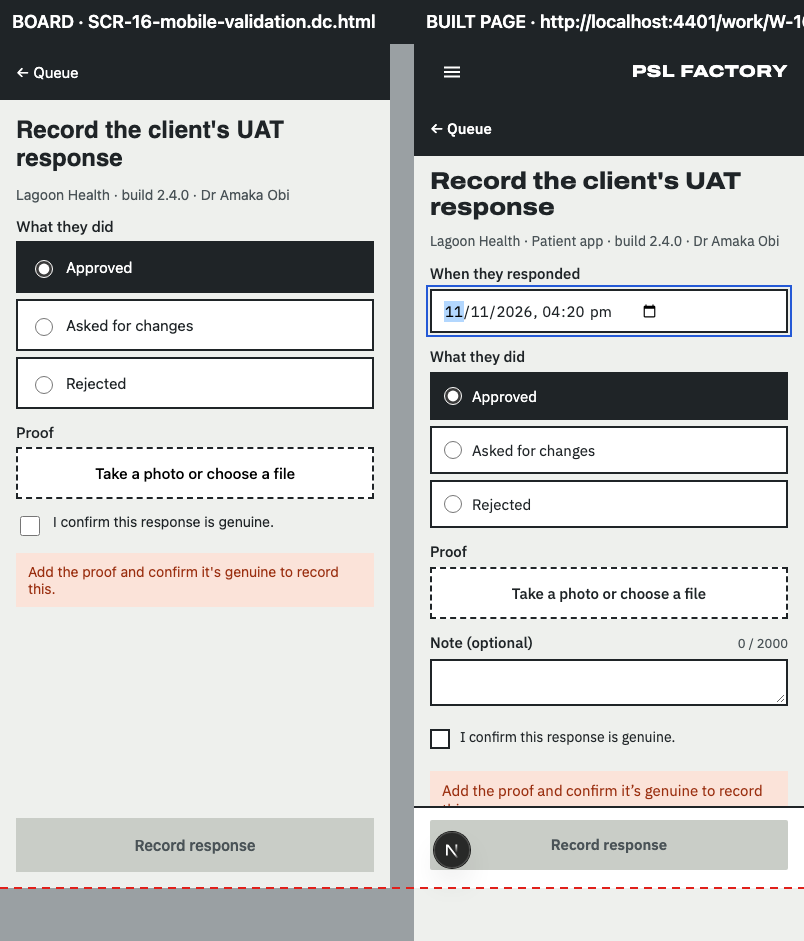
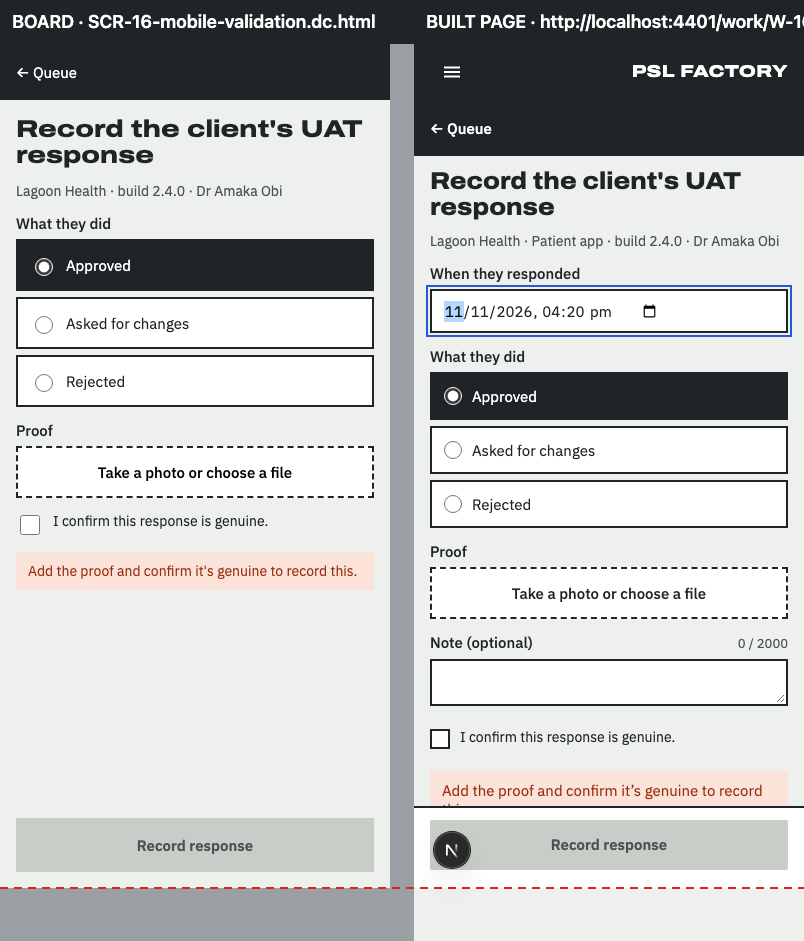
Delivery: F-10 provisional product acceptance and PR #16; merge waits for the design engineer (high risk)

diff --git a/delivery/features/F-09/round-1/fidelity/SCR-02-desktop-waiting-1440/report.html b/delivery/features/F-09/round-1/fidelity/SCR-02-desktop-waiting-1440/report.html
@@ -27,10 +27,10 @@ details{margin-top:6px}summary{cursor:pointer;font-weight:600}
 code{font-size:13px;background:var(--bg);padding:0 4px}
 </style></head><body><main>
 <header><h1>Does the built page follow the design?</h1>
-<p class="sub">Board <strong>SCR-02-desktop-waiting.dc.html</strong> compared with <strong>http://localhost:4401/work/W-1601</strong> at 1440px wide · 2026-11-14T07:19:39.861Z</p></header>
+<p class="sub">Board <strong>SCR-02-desktop-waiting.dc.html</strong> compared with <strong>http://localhost:4401/work/W-1601</strong> at 1440px wide · 2026-11-14T07:20:21.472Z</p></header>
 
 <div class="verdict fail"><strong>Does not pass the design check</strong>
-<ul><li>1 board item(s) are missing from the page and are not approved exceptions (coverage 96.9% with exceptions, needs 100%).</li><li>Visual match 48.5 is below 90.</li><li>1 item(s) are in a different place; review them (not part of the pass rule unless --strict-position).</li></ul></div>
+<ul><li>Every board item is on the page or approved as an exception (100%).</li><li>Visual match 48.5 is below 90.</li><li>1 item(s) are in a different place; review them (not part of the pass rule unless --strict-position).</li></ul></div>
 
 <div class="scores">
 <div class="score"><div class="big">28.1%</div><div class="need">Element coverage · needs 100% (approved exceptions count as covered)</div>
@@ -39,7 +39,7 @@ code{font-size:13px;background:var(--bg);padding:0 4px}
 <p>How closely the shapes line up: blocks, bars, tables and text areas, compared in 12px squares over the top 900px. Different words in the same place still count as a match, so sample data does not lower the score.</p></div>
 </div>
 
-<section id="missing"><h2>Missing from the built page <span class="n">23</span></h2><p class="intro">Drawn on the board but not found on the page. Each one must be built, or approved as an exception.</p><table><thead><tr><th>#</th><th>What</th><th>Text on the board</th><th>Where on the board</th><th>Exception</th></tr></thead><tbody><tr><td><span class="tag t-miss">M1</span></td><td>Link</td><td>Start work</td><td>right, 8px down</td><td><span class="tag t-ok">approved</span> Frame item (app top bar, src/shell, F-05's Start work split button); not on this base and outside F-09's lane.</td></tr><tr><td><span class="tag t-miss">M2</span></td><td>Link</td><td>More ways to start</td><td>right, 8px down</td><td><span class="tag t-ok">approved</span> Frame item (app top bar, src/shell, F-05's Start work split button); not on this base and outside F-09's lane.</td></tr><tr><td><span class="tag t-miss">M3</span></td><td>Text</td><td>REL-0077 · LAGOON HEALTH</td><td>middle, 84px down</td><td><span class="tag t-ok">approved</span> SCR-02 page content owned by F-03 (work item header, facts strip, agent card, waiting panel); F-09 adds only the entry button and the reconcile panel (readiness PMO-0-6: differences raised against F-03).</td></tr><tr><td><span class="tag t-miss">M4</span></td><td>Text</td><td>WAITING ON CLIENT</td><td>right, 119px down</td><td><span class="tag t-ok">approved</span> SCR-02 page content owned by F-03 (work item header, facts strip, agent card, waiting panel); F-09 adds only the entry button and the reconcile panel (readiness PMO-0-6: differences raised against F-03).</td></tr><tr><td><span class="tag t-miss">M5</span></td><td>Text</td><td>DRAFTED</td><td>left, 192px down</td><td><span class="tag t-ok">approved</span> SCR-02 page content owned by F-03 (work item header, facts strip, agent card, waiting panel); F-09 adds only the entry button and the reconcile panel (readiness PMO-0-6: differences raised against F-03).</td></tr><tr><td><span class="tag t-miss">M6</span></td><td>Text</td><td>v1</td><td>left, 210px down</td><td><span class="tag t-ok">approved</span> SCR-02 page content owned by F-03 (work item header, facts strip, agent card, waiting panel); F-09 adds only the entry button and the reconcile panel (readiness PMO-0-6: differences raised against F-03).</td></tr><tr><td><span class="tag t-miss">M7</span></td><td>Text</td><td>REVIEWED</td><td>left, 192px down</td><td><span class="tag t-ok">approved</span> SCR-02 page content owned by F-03 (work item header, facts strip, agent card, waiting panel); F-09 adds only the entry button and the reconcile panel (readiness PMO-0-6: differences raised against F-03).</td></tr><tr><td><span class="tag t-miss">M8</span></td><td>Text</td><td>PMO Lead</td><td>left, 210px down</td><td><span class="tag t-ok">approved</span> SCR-02 page content owned by F-03 (work item header, facts strip, agent card, waiting panel); F-09 adds only the entry button and the reconcile panel (readiness PMO-0-6: differences raised against F-03).</td></tr><tr><td><span class="tag t-miss">M9</span></td><td>Text</td><td>APPROVED</td><td>middle, 192px down</td><td><span class="tag t-ok">approved</span> SCR-02 page content owned by F-03 (work item header, facts strip, agent card, waiting panel); F-09 adds only the entry button and the reconcile panel (readiness PMO-0-6: differences raised against F-03).</td></tr><tr><td><span class="tag t-miss">M10</span></td><td>Text</td><td>PMO Lead</td><td>middle, 210px down</td><td><span class="tag t-ok">approved</span> SCR-02 page content owned by F-03 (work item header, facts strip, agent card, waiting panel); F-09 adds only the entry button and the reconcile panel (readiness PMO-0-6: differences raised against F-03).</td></tr><tr><td><span class="tag t-miss">M11</span></td><td>Text</td><td>SENT</td><td>middle, 192px down</td><td><span class="tag t-ok">approved</span> SCR-02 page content owned by F-03 (work item header, facts strip, agent card, waiting panel); F-09 adds only the entry button and the reconcile panel (readiness PMO-0-6: differences raised against F-03).</td></tr><tr><td><span class="tag t-miss">M12</span></td><td>Text</td><td>To client 06 Nov</td><td>middle, 210px down</td><td><span class="tag t-ok">approved</span> SCR-02 page content owned by F-03 (work item header, facts strip, agent card, waiting panel); F-09 adds only the entry button and the reconcile panel (readiness PMO-0-6: differences raised against F-03).</td></tr><tr><td><span class="tag t-miss">M13</span></td><td>Text</td><td>RECEIPT</td><td>right, 192px down</td><td><span class="tag t-ok">approved</span> SCR-02 page content owned by F-03 (work item header, facts strip, agent card, waiting panel); F-09 adds only the entry button and the reconcile panel (readiness PMO-0-6: differences raised against F-03).</td></tr><tr><td><span class="tag t-miss">M14</span></td><td>Text</td><td>Delivered</td><td>right, 210px down</td><td><span class="tag t-ok">approved</span> SCR-02 page content owned by F-03 (work item header, facts strip, agent card, waiting panel); F-09 adds only the entry button and the reconcile panel (readiness PMO-0-6: differences raised against F-03).</td></tr><tr><td><span class="tag t-miss">M15</span></td><td>Text</td><td>VERIFIED</td><td>right, 192px down</td><td><span class="tag t-ok">approved</span> SCR-02 page content owned by F-03 (work item header, facts strip, agent card, waiting panel); F-09 adds only the entry button and the reconcile panel (readiness PMO-0-6: differences raised against F-03).</td></tr><tr><td><span class="tag t-miss">M16</span></td><td>Text</td><td>—</td><td>right, 210px down</td><td><span class="tag t-ok">approved</span> SCR-02 page content owned by F-03 (work item header, facts strip, agent card, waiting panel); F-09 adds only the entry button and the reconcile panel (readiness PMO-0-6: differences raised against F-03).</td></tr><tr><td><span class="tag t-miss">M17</span></td><td>Text</td><td>Tola has done the agent's part and is waiting on Lagoon Health.</td><td>middle, 363px down</td><td><span class="tag t-ok">approved</span> SCR-02 page content owned by F-03 (work item header, facts strip, agent card, waiting panel); F-09 adds only the entry button and the reconcile panel (readiness PMO-0-6: differences raised against F-03).</td></tr><tr><td><span class="tag t-miss">M18</span></td><td>Text</td><td>The UAT pack was delivered on 06 Nov. Tola will remind the client on 13 Nov. When they reply, a PM records it with the proof.</td><td>middle, 387px down</td><td><span class="tag t-ok">approved</span> SCR-02 page content owned by F-03 (work item header, facts strip, agent card, waiting panel); F-09 adds only the entry button and the reconcile panel (readiness PMO-0-6: differences raised against F-03).</td></tr><tr><td><span class="tag t-miss">M19</span></td><td>Side panel</td><td>(side panel)</td><td>right, 445px down</td><td>—</td></tr><tr><td><span class="tag t-miss">M20</span></td><td>Text</td><td>WAITING ON THE CLIENT</td><td>right, 447px down</td><td><span class="tag t-ok">approved</span> SCR-02 page content owned by F-03 (work item header, facts strip, agent card, waiting panel); F-09 adds only the entry button and the reconcile panel (readiness PMO-0-6: differences raised against F-03).</td></tr><tr><td><span class="tag t-miss">M21</span></td><td>Text</td><td>Lagoon Health has had the UAT pack since 06 Nov. Their response is due 14 Nov (from the release plan).</td><td>right, 503px down</td><td><span class="tag t-ok">approved</span> SCR-02 page content owned by F-03 (work item header, facts strip, agent card, waiting panel); F-09 adds only the entry button and the reconcile panel (readiness PMO-0-6: differences raised against F-03).</td></tr><tr><td><span class="tag t-miss">M22</span></td><td>Text</td><td>Tola will send a reminder from your mailbox on 13 Nov if nothing arrives. When the client replies, record it here with the proof.</td><td>right, 576px down</td><td><span class="tag t-ok">approved</span> SCR-02 page content owned by F-03 (work item header, facts strip, agent card, waiting panel); F-09 adds only the entry button and the reconcile panel (readiness PMO-0-6: differences raised against F-03).</td></tr><tr><td><span class="tag t-miss">M23</span></td><td>Link</td><td>Change the reminder</td><td>right, 709px down</td><td><span class="tag t-ok">approved</span> Out of scope for F-09 (readiness PMO-0-7: &quot;Change the reminder&quot; stays out); the waiting panel's copy is F-03's.</td></tr></tbody></table></section>
+<section id="missing"><h2>Missing from the built page <span class="n">23</span></h2><p class="intro">Drawn on the board but not found on the page. Each one must be built, or approved as an exception.</p><table><thead><tr><th>#</th><th>What</th><th>Text on the board</th><th>Where on the board</th><th>Exception</th></tr></thead><tbody><tr><td><span class="tag t-miss">M1</span></td><td>Link</td><td>Start work</td><td>right, 8px down</td><td><span class="tag t-ok">approved</span> Frame item (app top bar, src/shell, F-05's Start work split button); not on this base and outside F-09's lane.</td></tr><tr><td><span class="tag t-miss">M2</span></td><td>Link</td><td>More ways to start</td><td>right, 8px down</td><td><span class="tag t-ok">approved</span> Frame item (app top bar, src/shell, F-05's Start work split button); not on this base and outside F-09's lane.</td></tr><tr><td><span class="tag t-miss">M3</span></td><td>Text</td><td>REL-0077 · LAGOON HEALTH</td><td>middle, 84px down</td><td><span class="tag t-ok">approved</span> SCR-02 page content owned by F-03 (work item header, facts strip, agent card, waiting panel); F-09 adds only the entry button and the reconcile panel (readiness PMO-0-6: differences raised against F-03).</td></tr><tr><td><span class="tag t-miss">M4</span></td><td>Text</td><td>WAITING ON CLIENT</td><td>right, 119px down</td><td><span class="tag t-ok">approved</span> SCR-02 page content owned by F-03 (work item header, facts strip, agent card, waiting panel); F-09 adds only the entry button and the reconcile panel (readiness PMO-0-6: differences raised against F-03).</td></tr><tr><td><span class="tag t-miss">M5</span></td><td>Text</td><td>DRAFTED</td><td>left, 192px down</td><td><span class="tag t-ok">approved</span> SCR-02 page content owned by F-03 (work item header, facts strip, agent card, waiting panel); F-09 adds only the entry button and the reconcile panel (readiness PMO-0-6: differences raised against F-03).</td></tr><tr><td><span class="tag t-miss">M6</span></td><td>Text</td><td>v1</td><td>left, 210px down</td><td><span class="tag t-ok">approved</span> SCR-02 page content owned by F-03 (work item header, facts strip, agent card, waiting panel); F-09 adds only the entry button and the reconcile panel (readiness PMO-0-6: differences raised against F-03).</td></tr><tr><td><span class="tag t-miss">M7</span></td><td>Text</td><td>REVIEWED</td><td>left, 192px down</td><td><span class="tag t-ok">approved</span> SCR-02 page content owned by F-03 (work item header, facts strip, agent card, waiting panel); F-09 adds only the entry button and the reconcile panel (readiness PMO-0-6: differences raised against F-03).</td></tr><tr><td><span class="tag t-miss">M8</span></td><td>Text</td><td>PMO Lead</td><td>left, 210px down</td><td><span class="tag t-ok">approved</span> SCR-02 page content owned by F-03 (work item header, facts strip, agent card, waiting panel); F-09 adds only the entry button and the reconcile panel (readiness PMO-0-6: differences raised against F-03).</td></tr><tr><td><span class="tag t-miss">M9</span></td><td>Text</td><td>APPROVED</td><td>middle, 192px down</td><td><span class="tag t-ok">approved</span> SCR-02 page content owned by F-03 (work item header, facts strip, agent card, waiting panel); F-09 adds only the entry button and the reconcile panel (readiness PMO-0-6: differences raised against F-03).</td></tr><tr><td><span class="tag t-miss">M10</span></td><td>Text</td><td>PMO Lead</td><td>middle, 210px down</td><td><span class="tag t-ok">approved</span> SCR-02 page content owned by F-03 (work item header, facts strip, agent card, waiting panel); F-09 adds only the entry button and the reconcile panel (readiness PMO-0-6: differences raised against F-03).</td></tr><tr><td><span class="tag t-miss">M11</span></td><td>Text</td><td>SENT</td><td>middle, 192px down</td><td><span class="tag t-ok">approved</span> SCR-02 page content owned by F-03 (work item header, facts strip, agent card, waiting panel); F-09 adds only the entry button and the reconcile panel (readiness PMO-0-6: differences raised against F-03).</td></tr><tr><td><span class="tag t-miss">M12</span></td><td>Text</td><td>To client 06 Nov</td><td>middle, 210px down</td><td><span class="tag t-ok">approved</span> SCR-02 page content owned by F-03 (work item header, facts strip, agent card, waiting panel); F-09 adds only the entry button and the reconcile panel (readiness PMO-0-6: differences raised against F-03).</td></tr><tr><td><span class="tag t-miss">M13</span></td><td>Text</td><td>RECEIPT</td><td>right, 192px down</td><td><span class="tag t-ok">approved</span> SCR-02 page content owned by F-03 (work item header, facts strip, agent card, waiting panel); F-09 adds only the entry button and the reconcile panel (readiness PMO-0-6: differences raised against F-03).</td></tr><tr><td><span class="tag t-miss">M14</span></td><td>Text</td><td>Delivered</td><td>right, 210px down</td><td><span class="tag t-ok">approved</span> SCR-02 page content owned by F-03 (work item header, facts strip, agent card, waiting panel); F-09 adds only the entry button and the reconcile panel (readiness PMO-0-6: differences raised against F-03).</td></tr><tr><td><span class="tag t-miss">M15</span></td><td>Text</td><td>VERIFIED</td><td>right, 192px down</td><td><span class="tag t-ok">approved</span> SCR-02 page content owned by F-03 (work item header, facts strip, agent card, waiting panel); F-09 adds only the entry button and the reconcile panel (readiness PMO-0-6: differences raised against F-03).</td></tr><tr><td><span class="tag t-miss">M16</span></td><td>Text</td><td>—</td><td>right, 210px down</td><td><span class="tag t-ok">approved</span> SCR-02 page content owned by F-03 (work item header, facts strip, agent card, waiting panel); F-09 adds only the entry button and the reconcile panel (readiness PMO-0-6: differences raised against F-03).</td></tr><tr><td><span class="tag t-miss">M17</span></td><td>Text</td><td>Tola has done the agent's part and is waiting on Lagoon Health.</td><td>middle, 363px down</td><td><span class="tag t-ok">approved</span> SCR-02 page content owned by F-03 (work item header, facts strip, agent card, waiting panel); F-09 adds only the entry button and the reconcile panel (readiness PMO-0-6: differences raised against F-03).</td></tr><tr><td><span class="tag t-miss">M18</span></td><td>Text</td><td>The UAT pack was delivered on 06 Nov. Tola will remind the client on 13 Nov. When they reply, a PM records it with the proof.</td><td>middle, 387px down</td><td><span class="tag t-ok">approved</span> SCR-02 page content owned by F-03 (work item header, facts strip, agent card, waiting panel); F-09 adds only the entry button and the reconcile panel (readiness PMO-0-6: differences raised against F-03).</td></tr><tr><td><span class="tag t-miss">M19</span></td><td>Side panel</td><td>(side panel)</td><td>right, 445px down</td><td><span class="tag t-ok">approved</span> The SCR-02 waiting board's side panel (&quot;Waiting on the client&quot;) is F-03's; F-09 places only its &quot;Record the client's response&quot; button (readiness PMO-0-6, PMO-0-7).</td></tr><tr><td><span class="tag t-miss">M20</span></td><td>Text</td><td>WAITING ON THE CLIENT</td><td>right, 447px down</td><td><span class="tag t-ok">approved</span> SCR-02 page content owned by F-03 (work item header, facts strip, agent card, waiting panel); F-09 adds only the entry button and the reconcile panel (readiness PMO-0-6: differences raised against F-03).</td></tr><tr><td><span class="tag t-miss">M21</span></td><td>Text</td><td>Lagoon Health has had the UAT pack since 06 Nov. Their response is due 14 Nov (from the release plan).</td><td>right, 503px down</td><td><span class="tag t-ok">approved</span> SCR-02 page content owned by F-03 (work item header, facts strip, agent card, waiting panel); F-09 adds only the entry button and the reconcile panel (readiness PMO-0-6: differences raised against F-03).</td></tr><tr><td><span class="tag t-miss">M22</span></td><td>Text</td><td>Tola will send a reminder from your mailbox on 13 Nov if nothing arrives. When the client replies, record it here with the proof.</td><td>right, 576px down</td><td><span class="tag t-ok">approved</span> SCR-02 page content owned by F-03 (work item header, facts strip, agent card, waiting panel); F-09 adds only the entry button and the reconcile panel (readiness PMO-0-6: differences raised against F-03).</td></tr><tr><td><span class="tag t-miss">M23</span></td><td>Link</td><td>Change the reminder</td><td>right, 709px down</td><td><span class="tag t-ok">approved</span> Out of scope for F-09 (readiness PMO-0-7: &quot;Change the reminder&quot; stays out); the waiting panel's copy is F-03's.</td></tr></tbody></table></section>
 
 <section id="moved"><h2>In a different place <span class="n">1</span></h2><p class="intro">Found on both, but in a different order, side of the page, or area (for example inside the table frame instead of above it).</p><table><thead><tr><th>#</th><th>What</th><th>How it moved</th></tr></thead><tbody><tr><td><span class="tag t-move">P1</span></td><td>Link<br>Record the client's response</td><td><ul class="notes"><li>inside a side panel on the board, inside the main area on the page</li></ul></td></tr></tbody></table></section>
 

diff --git a/delivery/features/F-09/round-1/fidelity/SCR-02-mobile-waiting-390/report.html b/delivery/features/F-09/round-1/fidelity/SCR-02-mobile-waiting-390/report.html
@@ -27,19 +27,19 @@ details{margin-top:6px}summary{cursor:pointer;font-weight:600}
 code{font-size:13px;background:var(--bg);padding:0 4px}
 </style></head><body><main>
 <header><h1>Does the built page follow the design?</h1>
-<p class="sub">Board <strong>SCR-02-mobile-waiting.dc.html</strong> compared with <strong>http://localhost:4401/work/W-1601</strong> at 390px wide · 2026-11-14T07:19:48.311Z</p></header>
+<p class="sub">Board <strong>SCR-02-mobile-waiting.dc.html</strong> compared with <strong>http://localhost:4401/work/W-1601</strong> at 390px wide · 2026-11-14T07:20:28.555Z</p></header>
 
 <div class="verdict fail"><strong>Does not pass the design check</strong>
-<ul><li>Every board item is on the page or approved as an exception (100%).</li><li>Visual match 53 is below 90.</li></ul></div>
+<ul><li>Every board item is on the page or approved as an exception (100%).</li><li>Visual match 52.7 is below 90.</li></ul></div>
 
 <div class="scores">
 <div class="score"><div class="big">10.5%</div><div class="need">Element coverage · needs 100% (approved exceptions count as covered)</div>
 <p>2 of 19 things drawn on the board were found on the page: headings, buttons, links, search and filter controls, table columns, labels and the repeated rows (counted once, not per row).</p></div>
-<div class="score"><div class="big">53</div><div class="need">Visual match out of 100 · needs 90</div>
+<div class="score"><div class="big">52.7</div><div class="need">Visual match out of 100 · needs 90</div>
 <p>How closely the shapes line up: blocks, bars, tables and text areas, compared in 12px squares over the top 844px. Different words in the same place still count as a match, so sample data does not lower the score.</p></div>
 </div>
 
-<section id="missing"><h2>Missing from the built page <span class="n">17</span></h2><p class="intro">Drawn on the board but not found on the page. Each one must be built, or approved as an exception.</p><table><thead><tr><th>#</th><th>What</th><th>Text on the board</th><th>Where on the board</th><th>Exception</th></tr></thead><tbody><tr><td><span class="tag t-miss">M1</span></td><td>Link</td><td>← Queue</td><td>left, 6px down</td><td><span class="tag t-ok">approved</span> SCR-02 phone header belongs to F-03 / the frame's phone bar (D-08); F-09 adds only the entry button and the reconcile panel.</td></tr><tr><td><span class="tag t-miss">M2</span></td><td>Text</td><td>REL-0077</td><td>right, 21px down</td><td><span class="tag t-ok">approved</span> SCR-02 page content owned by F-03 (work item header, facts strip, agent card, waiting panel); F-09 adds only the entry button and the reconcile panel (readiness PMO-0-6: differences raised against F-03).</td></tr><tr><td><span class="tag t-miss">M3</span></td><td>Text</td><td>WAITING ON CLIENT</td><td>left, 106px down</td><td><span class="tag t-ok">approved</span> SCR-02 page content owned by F-03 (work item header, facts strip, agent card, waiting panel); F-09 adds only the entry button and the reconcile panel (readiness PMO-0-6: differences raised against F-03).</td></tr><tr><td><span class="tag t-miss">M4</span></td><td>Text</td><td>DRAFTED</td><td>left, 149px down</td><td><span class="tag t-ok">approved</span> SCR-02 page content owned by F-03 (work item header, facts strip, agent card, waiting panel); F-09 adds only the entry button and the reconcile panel (readiness PMO-0-6: differences raised against F-03).</td></tr><tr><td><span class="tag t-miss">M5</span></td><td>Text</td><td>v1</td><td>left, 161px down</td><td><span class="tag t-ok">approved</span> SCR-02 page content owned by F-03 (work item header, facts strip, agent card, waiting panel); F-09 adds only the entry button and the reconcile panel (readiness PMO-0-6: differences raised against F-03).</td></tr><tr><td><span class="tag t-miss">M6</span></td><td>Text</td><td>REVIEWED</td><td>middle, 149px down</td><td><span class="tag t-ok">approved</span> SCR-02 page content owned by F-03 (work item header, facts strip, agent card, waiting panel); F-09 adds only the entry button and the reconcile panel (readiness PMO-0-6: differences raised against F-03).</td></tr><tr><td><span class="tag t-miss">M7</span></td><td>Text</td><td>PMO Lead</td><td>middle, 161px down</td><td><span class="tag t-ok">approved</span> SCR-02 page content owned by F-03 (work item header, facts strip, agent card, waiting panel); F-09 adds only the entry button and the reconcile panel (readiness PMO-0-6: differences raised against F-03).</td></tr><tr><td><span class="tag t-miss">M8</span></td><td>Text</td><td>APPROVED</td><td>right, 149px down</td><td><span class="tag t-ok">approved</span> SCR-02 page content owned by F-03 (work item header, facts strip, agent card, waiting panel); F-09 adds only the entry button and the reconcile panel (readiness PMO-0-6: differences raised against F-03).</td></tr><tr><td><span class="tag t-miss">M9</span></td><td>Text</td><td>PMO Lead</td><td>right, 161px down</td><td><span class="tag t-ok">approved</span> SCR-02 page content owned by F-03 (work item header, facts strip, agent card, waiting panel); F-09 adds only the entry button and the reconcile panel (readiness PMO-0-6: differences raised against F-03).</td></tr><tr><td><span class="tag t-miss">M10</span></td><td>Text</td><td>SENT</td><td>left, 197px down</td><td><span class="tag t-ok">approved</span> SCR-02 page content owned by F-03 (work item header, facts strip, agent card, waiting panel); F-09 adds only the entry button and the reconcile panel (readiness PMO-0-6: differences raised against F-03).</td></tr><tr><td><span class="tag t-miss">M11</span></td><td>Text</td><td>To client 06 Nov</td><td>left, 209px down</td><td><span class="tag t-ok">approved</span> SCR-02 page content owned by F-03 (work item header, facts strip, agent card, waiting panel); F-09 adds only the entry button and the reconcile panel (readiness PMO-0-6: differences raised against F-03).</td></tr><tr><td><span class="tag t-miss">M12</span></td><td>Text</td><td>RECEIPT</td><td>middle, 197px down</td><td><span class="tag t-ok">approved</span> SCR-02 page content owned by F-03 (work item header, facts strip, agent card, waiting panel); F-09 adds only the entry button and the reconcile panel (readiness PMO-0-6: differences raised against F-03).</td></tr><tr><td><span class="tag t-miss">M13</span></td><td>Text</td><td>Delivered</td><td>middle, 209px down</td><td><span class="tag t-ok">approved</span> SCR-02 page content owned by F-03 (work item header, facts strip, agent card, waiting panel); F-09 adds only the entry button and the reconcile panel (readiness PMO-0-6: differences raised against F-03).</td></tr><tr><td><span class="tag t-miss">M14</span></td><td>Text</td><td>VERIFIED</td><td>right, 197px down</td><td><span class="tag t-ok">approved</span> SCR-02 page content owned by F-03 (work item header, facts strip, agent card, waiting panel); F-09 adds only the entry button and the reconcile panel (readiness PMO-0-6: differences raised against F-03).</td></tr><tr><td><span class="tag t-miss">M15</span></td><td>Text</td><td>—</td><td>right, 209px down</td><td><span class="tag t-ok">approved</span> SCR-02 page content owned by F-03 (work item header, facts strip, agent card, waiting panel); F-09 adds only the entry button and the reconcile panel (readiness PMO-0-6: differences raised against F-03).</td></tr><tr><td><span class="tag t-miss">M16</span></td><td>Text</td><td>Tola is waiting on Lagoon Health. UAT response due 14 Nov; Tola reminds them on 13 Nov.</td><td>right, 352px down</td><td><span class="tag t-ok">approved</span> SCR-02 page content owned by F-03 (work item header, facts strip, agent card, waiting panel); F-09 adds only the entry button and the reconcile panel (readiness PMO-0-6: differences raised against F-03).</td></tr><tr><td><span class="tag t-miss">M17</span></td><td>Text</td><td>Tola is waiting on Lagoon Health.</td><td>middle, 353px down</td><td><span class="tag t-ok">approved</span> SCR-02 page content owned by F-03 (work item header, facts strip, agent card, waiting panel); F-09 adds only the entry button and the reconcile panel (readiness PMO-0-6: differences raised against F-03).</td></tr></tbody></table></section>
+<section id="missing"><h2>Missing from the built page <span class="n">17</span></h2><p class="intro">Drawn on the board but not found on the page. Each one must be built, or approved as an exception.</p><table><thead><tr><th>#</th><th>What</th><th>Text on the board</th><th>Where on the board</th><th>Exception</th></tr></thead><tbody><tr><td><span class="tag t-miss">M1</span></td><td>Link</td><td>← Queue</td><td>left, 6px down</td><td><span class="tag t-ok">approved</span> SCR-02 phone header belongs to F-03 / the frame's phone bar (D-08); F-09 adds only the entry button and the reconcile panel.</td></tr><tr><td><span class="tag t-miss">M2</span></td><td>Text</td><td>REL-0077</td><td>right, 21px down</td><td><span class="tag t-ok">approved</span> SCR-02 page content owned by F-03 (work item header, facts strip, agent card, waiting panel); F-09 adds only the entry button and the reconcile panel (readiness PMO-0-6: differences raised against F-03).</td></tr><tr><td><span class="tag t-miss">M3</span></td><td>Text</td><td>WAITING ON CLIENT</td><td>left, 130px down</td><td><span class="tag t-ok">approved</span> SCR-02 page content owned by F-03 (work item header, facts strip, agent card, waiting panel); F-09 adds only the entry button and the reconcile panel (readiness PMO-0-6: differences raised against F-03).</td></tr><tr><td><span class="tag t-miss">M4</span></td><td>Text</td><td>DRAFTED</td><td>left, 173px down</td><td><span class="tag t-ok">approved</span> SCR-02 page content owned by F-03 (work item header, facts strip, agent card, waiting panel); F-09 adds only the entry button and the reconcile panel (readiness PMO-0-6: differences raised against F-03).</td></tr><tr><td><span class="tag t-miss">M5</span></td><td>Text</td><td>v1</td><td>left, 186px down</td><td><span class="tag t-ok">approved</span> SCR-02 page content owned by F-03 (work item header, facts strip, agent card, waiting panel); F-09 adds only the entry button and the reconcile panel (readiness PMO-0-6: differences raised against F-03).</td></tr><tr><td><span class="tag t-miss">M6</span></td><td>Text</td><td>REVIEWED</td><td>middle, 173px down</td><td><span class="tag t-ok">approved</span> SCR-02 page content owned by F-03 (work item header, facts strip, agent card, waiting panel); F-09 adds only the entry button and the reconcile panel (readiness PMO-0-6: differences raised against F-03).</td></tr><tr><td><span class="tag t-miss">M7</span></td><td>Text</td><td>PMO Lead</td><td>middle, 186px down</td><td><span class="tag t-ok">approved</span> SCR-02 page content owned by F-03 (work item header, facts strip, agent card, waiting panel); F-09 adds only the entry button and the reconcile panel (readiness PMO-0-6: differences raised against F-03).</td></tr><tr><td><span class="tag t-miss">M8</span></td><td>Text</td><td>APPROVED</td><td>right, 173px down</td><td><span class="tag t-ok">approved</span> SCR-02 page content owned by F-03 (work item header, facts strip, agent card, waiting panel); F-09 adds only the entry button and the reconcile panel (readiness PMO-0-6: differences raised against F-03).</td></tr><tr><td><span class="tag t-miss">M9</span></td><td>Text</td><td>PMO Lead</td><td>right, 186px down</td><td><span class="tag t-ok">approved</span> SCR-02 page content owned by F-03 (work item header, facts strip, agent card, waiting panel); F-09 adds only the entry button and the reconcile panel (readiness PMO-0-6: differences raised against F-03).</td></tr><tr><td><span class="tag t-miss">M10</span></td><td>Text</td><td>SENT</td><td>left, 223px down</td><td><span class="tag t-ok">approved</span> SCR-02 page content owned by F-03 (work item header, facts strip, agent card, waiting panel); F-09 adds only the entry button and the reconcile panel (readiness PMO-0-6: differences raised against F-03).</td></tr><tr><td><span class="tag t-miss">M11</span></td><td>Text</td><td>To client 06 Nov</td><td>left, 236px down</td><td><span class="tag t-ok">approved</span> SCR-02 page content owned by F-03 (work item header, facts strip, agent card, waiting panel); F-09 adds only the entry button and the reconcile panel (readiness PMO-0-6: differences raised against F-03).</td></tr><tr><td><span class="tag t-miss">M12</span></td><td>Text</td><td>RECEIPT</td><td>middle, 223px down</td><td><span class="tag t-ok">approved</span> SCR-02 page content owned by F-03 (work item header, facts strip, agent card, waiting panel); F-09 adds only the entry button and the reconcile panel (readiness PMO-0-6: differences raised against F-03).</td></tr><tr><td><span class="tag t-miss">M13</span></td><td>Text</td><td>Delivered</td><td>middle, 236px down</td><td><span class="tag t-ok">approved</span> SCR-02 page content owned by F-03 (work item header, facts strip, agent card, waiting panel); F-09 adds only the entry button and the reconcile panel (readiness PMO-0-6: differences raised against F-03).</td></tr><tr><td><span class="tag t-miss">M14</span></td><td>Text</td><td>VERIFIED</td><td>right, 223px down</td><td><span class="tag t-ok">approved</span> SCR-02 page content owned by F-03 (work item header, facts strip, agent card, waiting panel); F-09 adds only the entry button and the reconcile panel (readiness PMO-0-6: differences raised against F-03).</td></tr><tr><td><span class="tag t-miss">M15</span></td><td>Text</td><td>—</td><td>right, 236px down</td><td><span class="tag t-ok">approved</span> SCR-02 page content owned by F-03 (work item header, facts strip, agent card, waiting panel); F-09 adds only the entry button and the reconcile panel (readiness PMO-0-6: differences raised against F-03).</td></tr><tr><td><span class="tag t-miss">M16</span></td><td>Text</td><td>Tola is waiting on Lagoon Health. UAT response due 14 Nov; Tola reminds them on 13 Nov.</td><td>right, 401px down</td><td><span class="tag t-ok">approved</span> SCR-02 page content owned by F-03 (work item header, facts strip, agent card, waiting panel); F-09 adds only the entry button and the reconcile panel (readiness PMO-0-6: differences raised against F-03).</td></tr><tr><td><span class="tag t-miss">M17</span></td><td>Text</td><td>Tola is waiting on Lagoon Health.</td><td>right, 402px down</td><td><span class="tag t-ok">approved</span> SCR-02 page content owned by F-03 (work item header, facts strip, agent card, waiting panel); F-09 adds only the entry button and the reconcile panel (readiness PMO-0-6: differences raised against F-03).</td></tr></tbody></table></section>
 
 <section id="moved"><h2>In a different place <span class="n">0</span></h2><p class="intro">Found on both, but in a different order, side of the page, or area (for example inside the table frame instead of above it).</p><p class="none">Everything found is in the same place and order.</p></section>
 
@@ -58,11 +58,11 @@ code{font-size:13px;background:var(--bg);padding:0 4px}
 </section>
 
 <section id="notes"><h2>Notes about this run</h2>
-<div class="warnbox"><ul class="notes"><li>Images: /_blob/ images are served from /Users/Hunchoo/psl-factory-worktrees/f-09/design/mascots/canvas-assets.json (19 mapped).</li><li>Fonts: Google Fonts could not be reached (fonts.gstatic.com); the board was drawn with fallback fonts, so text widths may differ slightly. The run continues.</li></ul></div>
+<div class="warnbox"><ul class="notes"><li>Images: /_blob/ images are served from /Users/Hunchoo/psl-factory-worktrees/f-09/design/mascots/canvas-assets.json (19 mapped).</li></ul></div>
 <details><summary>Found on both (2)</summary><table><tbody><tr><td><span class="tag t-ok">Heading</span></td><td>Lagoon Health · release to UAT</td><td></td></tr><tr><td><span class="tag t-ok">Link</span></td><td>Record the client's response</td><td>page: Record the client’s response</td></tr></tbody></table></details>
 <details><summary>How the scores are worked out</summary>
 <p><strong>Element coverage.</strong> The board is drawn locally from its own template and sample data. From the drawn board the check lists everything a person sees or uses: page areas (navigation, main, search), headings, links, buttons, form fields with their labels, table column headers, filter, search and pagination controls and fixed labels. Rows drawn from sample data count once, as a pattern ("table rows with these columns"). Each item is looked for on the page by its kind and its words (ignoring capitals, curly quotes and small wording differences, at least 80% similar). Coverage is found ÷ drawn. Order is compared in reading order (top to bottom, left to right); an item is "moved" when it breaks the order, sits on the other side of the page, or sits inside a different area.</p>
-<p><strong>Visual match.</strong> Both full-page screenshots are compared in 12px squares after a light blur, over the board's height (844px; the page is 1226px). Only squares with something in them count. A square matches when its colours line up, or when both have text or lines there. Score = matching ÷ counted squares (1213 of 2290). Over every square including empty background it would be 54.</p>
+<p><strong>Visual match.</strong> Both full-page screenshots are compared in 12px squares after a light blur, over the board's height (844px; the page is 1226px). Only squares with something in them count. A square matches when its colours line up, or when both have text or lines there. Score = matching ÷ counted squares (1204 of 2285). Over every square including empty background it would be 53.9.</p>
 </details>
 <details><summary>Technical details</summary><p>Board file: <code>/Users/Hunchoo/psl-factory-worktrees/f-09/design/canvas/project/SCR-02-mobile-waiting.dc.html</code><br>Viewport: 390×844<br>Report data: <code>report.json</code><br>Exceptions file: <code>/Users/Hunchoo/psl-factory/delivery/features/F-09/round-1/fidelity/exception-requests.json</code></p></details>
 </section>

diff --git a/delivery/features/F-09/round-1/fidelity/SCR-16-mobile-validation-390/report.html b/delivery/features/F-09/round-1/fidelity/SCR-16-mobile-validation-390/report.html
@@ -27,19 +27,19 @@ details{margin-top:6px}summary{cursor:pointer;font-weight:600}
 code{font-size:13px;background:var(--bg);padding:0 4px}
 </style></head><body><main>
 <header><h1>Does the built page follow the design?</h1>
-<p class="sub">Board <strong>SCR-16-mobile-validation.dc.html</strong> compared with <strong>http://localhost:4401/work/W-1601/respond?task=T-1601</strong> at 390px wide · 2026-11-14T07:18:26.014Z</p></header>
+<p class="sub">Board <strong>SCR-16-mobile-validation.dc.html</strong> compared with <strong>http://localhost:4401/work/W-1601/respond?task=T-1601</strong> at 390px wide · 2026-11-14T07:20:36.479Z</p></header>
 
 <div class="verdict fail"><strong>Does not pass the design check</strong>
-<ul><li>Every board item is on the page or approved as an exception (100%).</li><li>Visual match 50.3 is below 90.</li><li>3 item(s) are in a different place; review them (not part of the pass rule unless --strict-position).</li></ul></div>
+<ul><li>Every board item is on the page or approved as an exception (100%).</li><li>Visual match 52.4 is below 90.</li><li>3 item(s) are in a different place; review them (not part of the pass rule unless --strict-position).</li></ul></div>
 
 <div class="scores">
 <div class="score"><div class="big">92.9%</div><div class="need">Element coverage · needs 100% (approved exceptions count as covered)</div>
 <p>13 of 14 things drawn on the board were found on the page: headings, buttons, links, search and filter controls, table columns, labels and the repeated rows (counted once, not per row).</p></div>
-<div class="score"><div class="big">50.3</div><div class="need">Visual match out of 100 · needs 90</div>
+<div class="score"><div class="big">52.4</div><div class="need">Visual match out of 100 · needs 90</div>
 <p>How closely the shapes line up: blocks, bars, tables and text areas, compared in 12px squares over the top 844px. Different words in the same place still count as a match, so sample data does not lower the score.</p></div>
 </div>
 
-<section id="missing"><h2>Missing from the built page <span class="n">1</span></h2><p class="intro">Drawn on the board but not found on the page. Each one must be built, or approved as an exception.</p><table><thead><tr><th>#</th><th>What</th><th>Text on the board</th><th>Where on the board</th><th>Exception</th></tr></thead><tbody><tr><td><span class="tag t-miss">M1</span></td><td>Text</td><td>Add the proof and confirm it's genuine to record this.</td><td>middle, 509px down</td><td><span class="tag t-ok">approved</span> On the page the line is role=&quot;alert&quot; (spec: announced beside the disabled Record, as on the desktop validation board); the phone board draws a plain div, so the tool counts it as a different role. Same words.</td></tr></tbody></table></section>
+<section id="missing"><h2>Missing from the built page <span class="n">1</span></h2><p class="intro">Drawn on the board but not found on the page. Each one must be built, or approved as an exception.</p><table><thead><tr><th>#</th><th>What</th><th>Text on the board</th><th>Where on the board</th><th>Exception</th></tr></thead><tbody><tr><td><span class="tag t-miss">M1</span></td><td>Text</td><td>Add the proof and confirm it's genuine to record this.</td><td>middle, 508px down</td><td><span class="tag t-ok">approved</span> On the page the line is role=&quot;alert&quot; (spec: announced beside the disabled Record, as on the desktop validation board); the phone board draws a plain div, so the tool counts it as a different role. Same words.</td></tr></tbody></table></section>
 
 <section id="moved"><h2>In a different place <span class="n">3</span></h2><p class="intro">Found on both, but in a different order, side of the page, or area (for example inside the table frame instead of above it).</p><table><thead><tr><th>#</th><th>What</th><th>How it moved</th></tr></thead><tbody><tr><td><span class="tag t-move">P1</span></td><td>Link<br>← Queue</td><td><ul class="notes"><li>inside the main area on the board, inside the top navigation on the page</li></ul></td></tr><tr><td><span class="tag t-move">P2</span></td><td>Heading<br>Record the client's UAT response</td><td><ul class="notes"><li>inside a form on the board, inside the main area on the page</li></ul></td></tr><tr><td><span class="tag t-move">P3</span></td><td>Form<br></td><td><ul class="notes"><li>order: on the board it comes after Button &quot;Take a photo or choose a file&quot;; on the page it comes after Option &quot;Rejected&quot;</li></ul></td></tr></tbody></table></section>
 
@@ -58,11 +58,11 @@ code{font-size:13px;background:var(--bg);padding:0 4px}
 </section>
 
 <section id="notes"><h2>Notes about this run</h2>
-<div class="warnbox"><ul class="notes"><li>Images: /_blob/ images are served from /Users/Hunchoo/psl-factory-worktrees/f-09/design/mascots/canvas-assets.json (19 mapped).</li><li>Fonts: Google Fonts could not be reached (fonts.googleapis.com); the board was drawn with fallback fonts, so text widths may differ slightly. The run continues.</li></ul></div>
+<div class="warnbox"><ul class="notes"><li>Images: /_blob/ images are served from /Users/Hunchoo/psl-factory-worktrees/f-09/design/mascots/canvas-assets.json (19 mapped).</li></ul></div>
 <details><summary>Found on both (13)</summary><table><tbody><tr><td><span class="tag t-ok">Link</span></td><td>← Queue</td><td></td></tr><tr><td><span class="tag t-ok">Form</span></td><td></td><td></td></tr><tr><td><span class="tag t-ok">Heading</span></td><td>Record the client's UAT response</td><td></td></tr><tr><td><span class="tag t-ok">Text</span></td><td>Lagoon Health · build 2.4.0 · Dr Amaka Obi</td><td>page: Lagoon Health · Patient app · build 2.4.0 · Dr Amaka Obi</td></tr><tr><td><span class="tag t-ok">Text</span></td><td>What they did</td><td></td></tr><tr><td><span class="tag t-ok">Option</span></td><td>Approved</td><td></td></tr><tr><td><span class="tag t-ok">Option</span></td><td>Asked for changes</td><td></td></tr><tr><td><span class="tag t-ok">Option</span></td><td>Rejected</td><td></td></tr><tr><td><span class="tag t-ok">Text</span></td><td>Proof</td><td></td></tr><tr><td><span class="tag t-ok">Button</span></td><td>Take a photo or choose a file</td><td></td></tr><tr><td><span class="tag t-ok">Checkbox</span></td><td>I confirm this response is genuine.</td><td></td></tr><tr><td><span class="tag t-ok">Text</span></td><td>I confirm this response is genuine.</td><td></td></tr><tr><td><span class="tag t-ok">Button</span></td><td>Record response</td><td></td></tr></tbody></table></details>
 <details><summary>How the scores are worked out</summary>
 <p><strong>Element coverage.</strong> The board is drawn locally from its own template and sample data. From the drawn board the check lists everything a person sees or uses: page areas (navigation, main, search), headings, links, buttons, form fields with their labels, table column headers, filter, search and pagination controls and fixed labels. Rows drawn from sample data count once, as a pattern ("table rows with these columns"). Each item is looked for on the page by its kind and its words (ignoring capitals, curly quotes and small wording differences, at least 80% similar). Coverage is found ÷ drawn. Order is compared in reading order (top to bottom, left to right); an item is "moved" when it breaks the order, sits on the other side of the page, or sits inside a different area.</p>
-<p><strong>Visual match.</strong> Both full-page screenshots are compared in 12px squares after a light blur, over the board's height (844px; the page is 897px). Only squares with something in them count. A square matches when its colours line up, or when both have text or lines there. Score = matching ÷ counted squares (933 of 1854). Over every square including empty background it would be 60.7.</p>
+<p><strong>Visual match.</strong> Both full-page screenshots are compared in 12px squares after a light blur, over the board's height (844px; the page is 897px). Only squares with something in them count. A square matches when its colours line up, or when both have text or lines there. Score = matching ÷ counted squares (970 of 1851). Over every square including empty background it would be 62.4.</p>
 </details>
 <details><summary>Technical details</summary><p>Board file: <code>/Users/Hunchoo/psl-factory-worktrees/f-09/design/canvas/project/SCR-16-mobile-validation.dc.html</code><br>Viewport: 390×844<br>Report data: <code>report.json</code><br>Exceptions file: <code>/Users/Hunchoo/psl-factory/delivery/features/F-09/round-1/fidelity/exception-requests.json</code></p></details>
 </section>

diff --git a/delivery/features/F-10/round-2/acceptance-product.md b/delivery/features/F-10/round-2/acceptance-product.md
@@ -1,0 +1,12 @@
+VERDICT: PASS
+COMMIT: 752ab93e4edc6fe7f3b9f85c410b377cff051bc9
+REVIEWER: coordinator, provisional for the design engineer (hunchoweb)
+AUTHORITY: the design engineer's overnight instruction, 14 Nov 2026; recorded in delivery/OVERNIGHT-DECISIONS.md
+
+## Summary
+- PROVISIONAL, recorded only so the PR can be prepared. Month-end passes the design-fidelity gate (desktop 98, phone 97.8) and every review, QA and PMO on this head.
+- For the design engineer's check: D-07 (link and route), D-19 (phone back link), the cash cell wording ("₦4.7M + Unknown"), the restricted Payroll row.
+- The merge is held for them: high risk (money).
+
+## Findings
+None.
